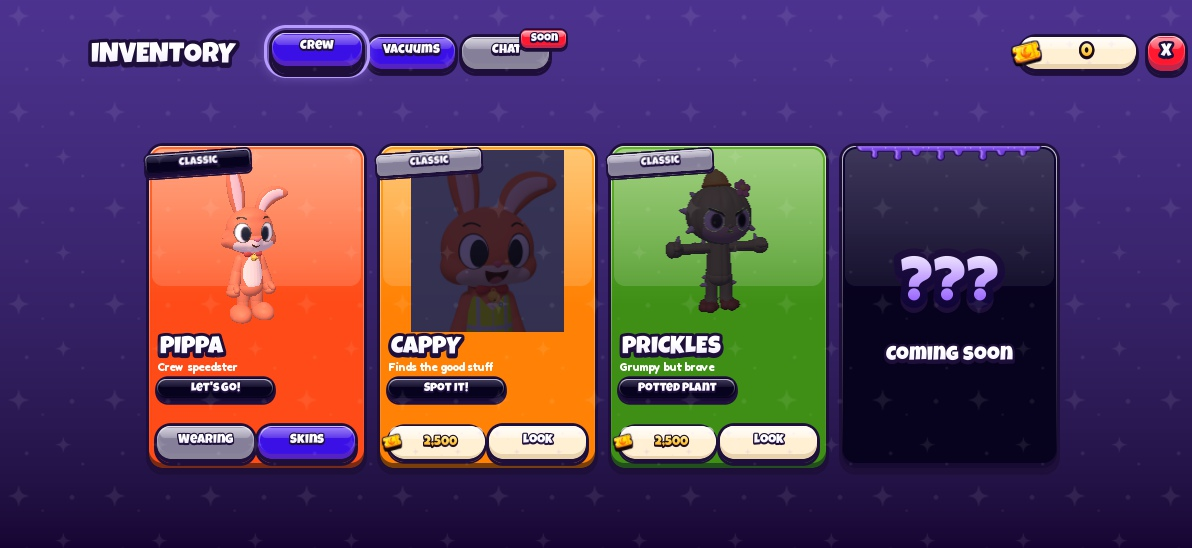
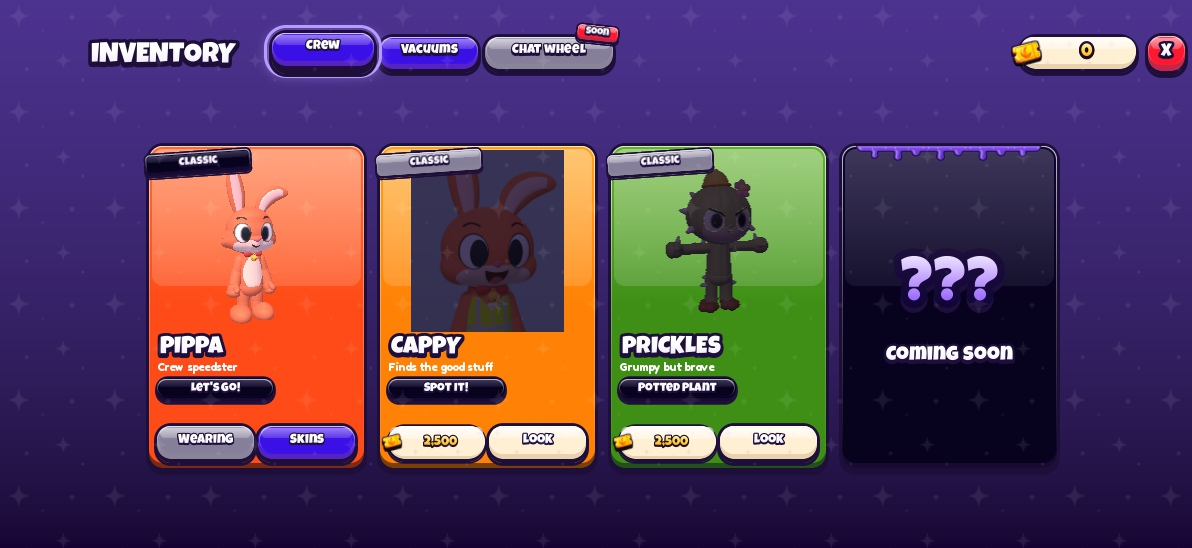
fix(cosmetic, inventory): New! clears when seen (SeenRequest); band, Chat wheel tab and phone button text fit

Changed region(s): [[0.2483, 0.031, 0.5277, 0.1551]]

diff --git a/reports/2026-10-24-character-step3.md b/reports/2026-10-24-character-step3.md
@@ -52,8 +52,16 @@ play-check it).
 - Phone captures were taken in a phone-sized frame on a desktop window, not on a device.
 - Skins without art yet (Gloom-Touched, Gloomkeeper, Bubble Buddy...) preview in the default look.
 - Cappy shows Pippa's placeholder photo (his model is parked); Prickles' head is dark in previews (his art's colours).
-- **New!** never clears: nothing marks items as seen yet (needs a small "seen" request; a later step).
-- The **Gloom Locker** band text shrinks to "Gloom" on small phone cards; the "Chat wheel" tab text is partly under its
-  Soon badge; the phone "Wearing" button text clips. Small polish items.
+- Long skin names still shorten on small phone cards ("Lavender" for Lavender Specs).
 - Gleam has no account balance yet, so only the Credits wallet shows.
 - Studio does not keep save data, so the pick opens on every Studio Play (expected; a live server keeps it).
+
+## Small fixes (same day)
+- **New! now clears.** Looking at a New! item on an employee's page tells the server (a new `SeenRequest`, owned and
+  registered items only, at most 32 per request); the flag goes when the loadout syncs. Verified: Gloom-Touched lost
+  its flag once shown and the server saved it; Lavender Specs (not looked at) kept it
+  (`step3-fix-new-before.jpg` / `step3-fix-new-cleared.jpg`).
+- **Gloom Locker** reads in full on phone cards (the band drops its icon on narrow cards; `step3-fix-band-phone.jpg`).
+- **Chat wheel** tab: the words show in full; "Soon" is a small flag above the tab's edge instead of a badge over it.
+- **Wearing** fits on the phone Crew card (phone cards are a little wider).
+- Full suite: **4629 passed, 0 failed**.
